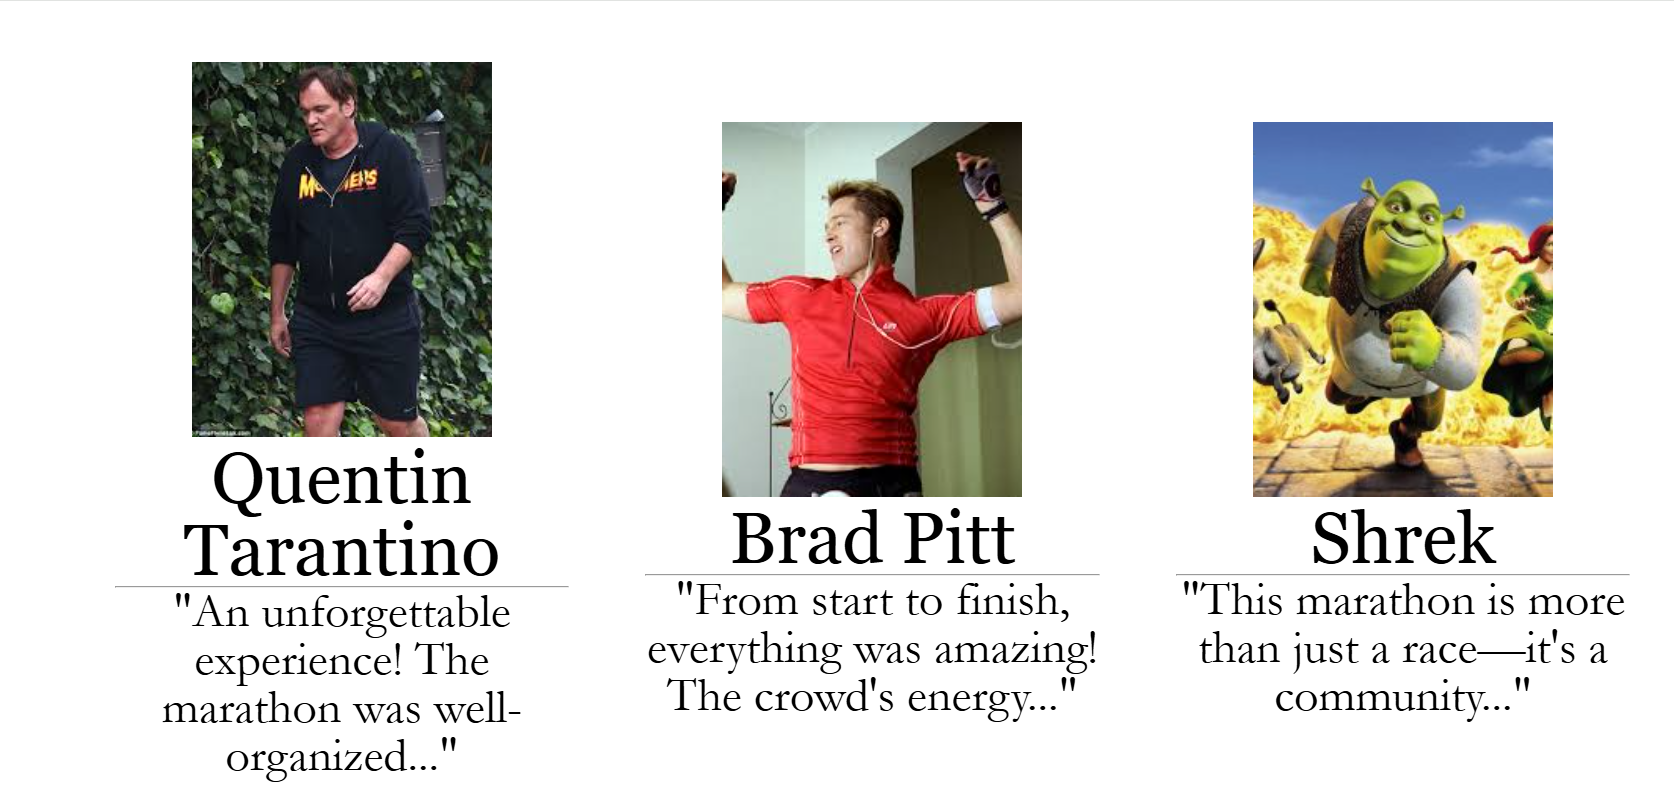
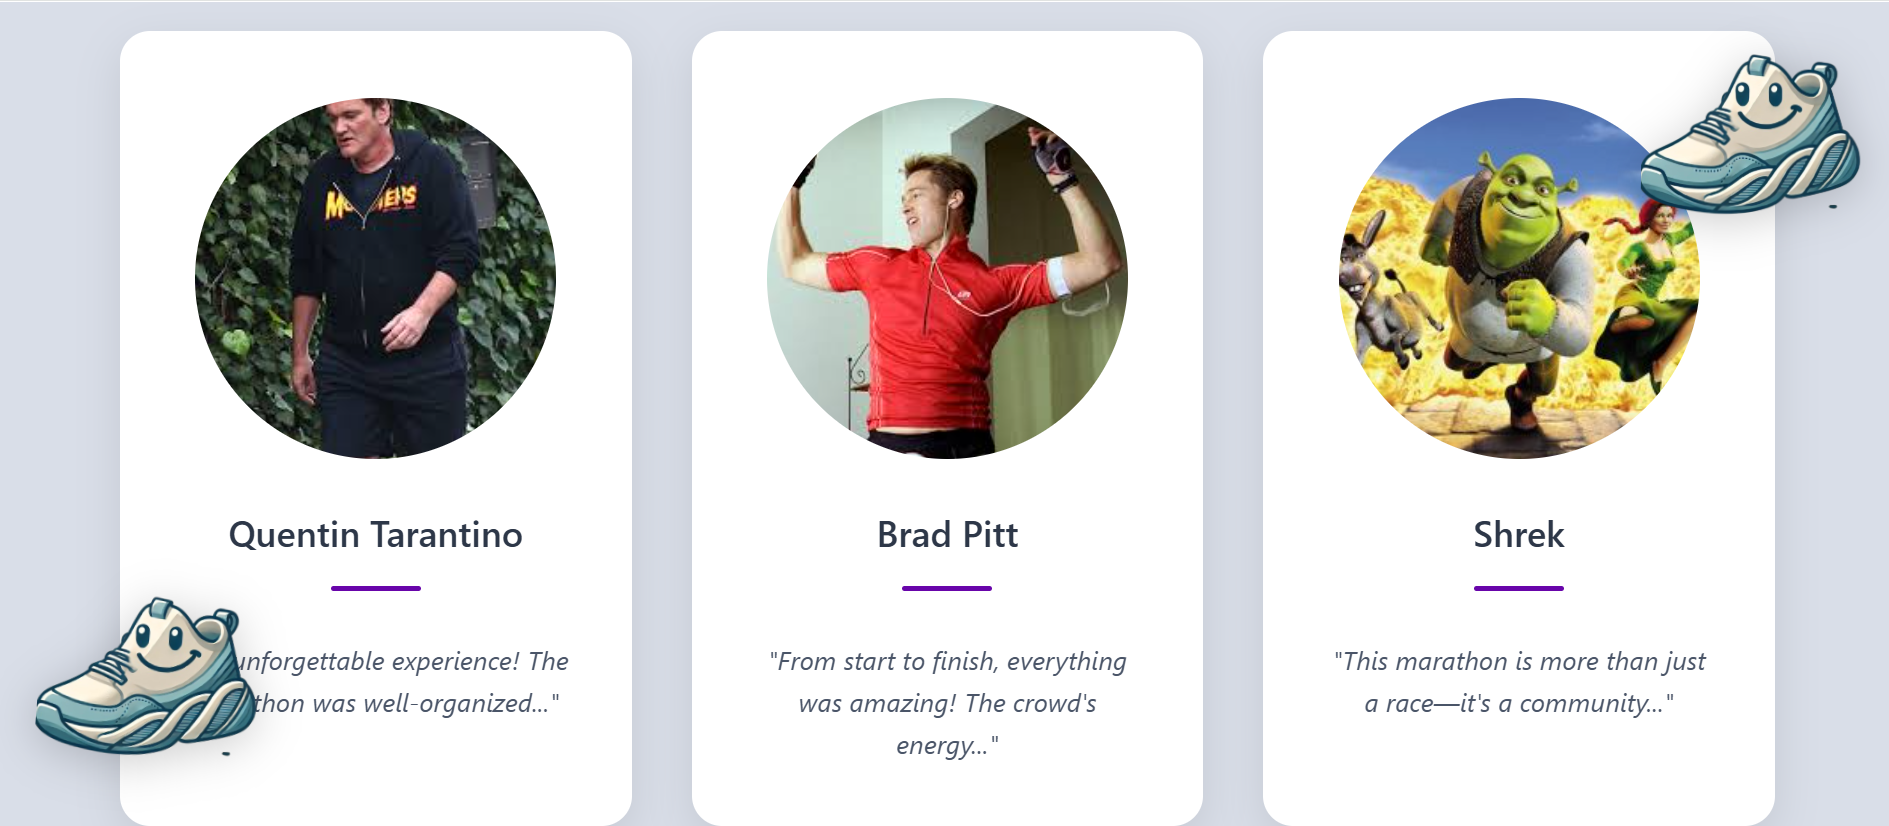
Update readme (#19)
* add a mascot in 2 corners of the page

* animate the mascot

* display a CTA message when hovering

* update the screenshots in the readme.md

diff --git a/README.md b/README.md
@@ -27,6 +27,10 @@ Here are the reviews from the BEST REAL participants of previous races.
 ![Contact Information](screenshots/contacts.png)  
 This is the footer of the page.
 
+### Mobile friendly example  
+![Responsiveness](screenshots/mobile.png)  
+This is the footer of the page.
+
 ## Live Demo
 [Link to the page](https://elena-nidelcu.github.io/landing-page/) 
 (Using GitHub pages)
